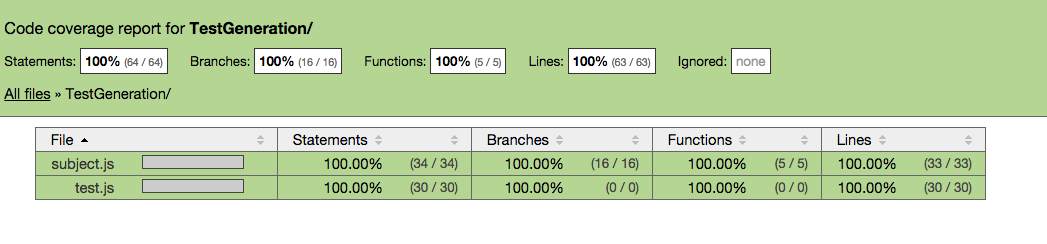
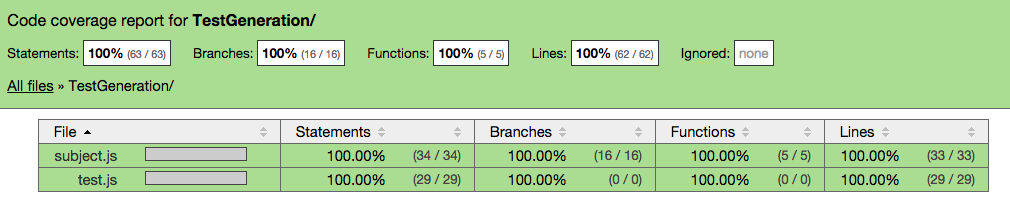
update Readme

diff --git a/test.js b/test.js
@@ -1,8 +1,8 @@
 var subject = require('./subject.js')
 var mock = require('mock-fs');
-subject.inc(-6.9174753269180655,5.106929966714233);
-subject.inc(-4.393006477039307,undefined);
-subject.inc(0,6.037935381755233);
+subject.inc(-3.720851882826537,6.740499043371528);
+subject.inc(-6.018519918434322,undefined);
+subject.inc(0,9.189524673856795);
 subject.inc(0,undefined);
 subject.inc(0,undefined);
 mock({"path/fileExists":{},"pathContent":{"file1":"text content"}});
@@ -22,8 +22,8 @@ mock({"pathContent":{"file1":""}});
 mock.restore();
 subject.fileTest('path/fileExists','pathContent/file1');
 subject.normalize('');
-subject.format('477-476-8751','1-###-###-#### x#####',{normalize: true});
-subject.format('916-670-4134','###-###-####',false);
+subject.format('432-411-0686','(###) ###-#### x#####',{normalize: true});
+subject.format('660-273-0846','(###) ###-####',false);
 subject.format('','',{normalize: true});
-subject.blackListNumber('212-759-7945');
-subject.blackListNumber('713-702-5082');
+subject.blackListNumber('212-489-1580');
+subject.blackListNumber('797-520-3055');

diff --git a/README.md b/README.md
@@ -3,17 +3,23 @@
 
 <pre>
 =============================== Coverage summary ===============================
-Statements   : 100% ( 64/64 )
+Statements   : 100% ( 63/63 )
 Branches     : 100% ( 16/16 )
 Functions    : 100% ( 5/5 )
-Lines        : 100% ( 63/63 )
+Lines        : 100% ( 62/62 )
 ================================================================================
 </pre>
+
+####You can run the local version as follows:
+
+	node_modules/.bin/istanbul cover test.js
+	node_module\.bin\istanbul cover test.js (Windows)
 
 
 #### You can see a better visualization of the results here:
     
     open coverage/lcov-report/TestGeneration/subject.js.html
+	
 #### You will see
 
 <img src="testResult.png"/>
